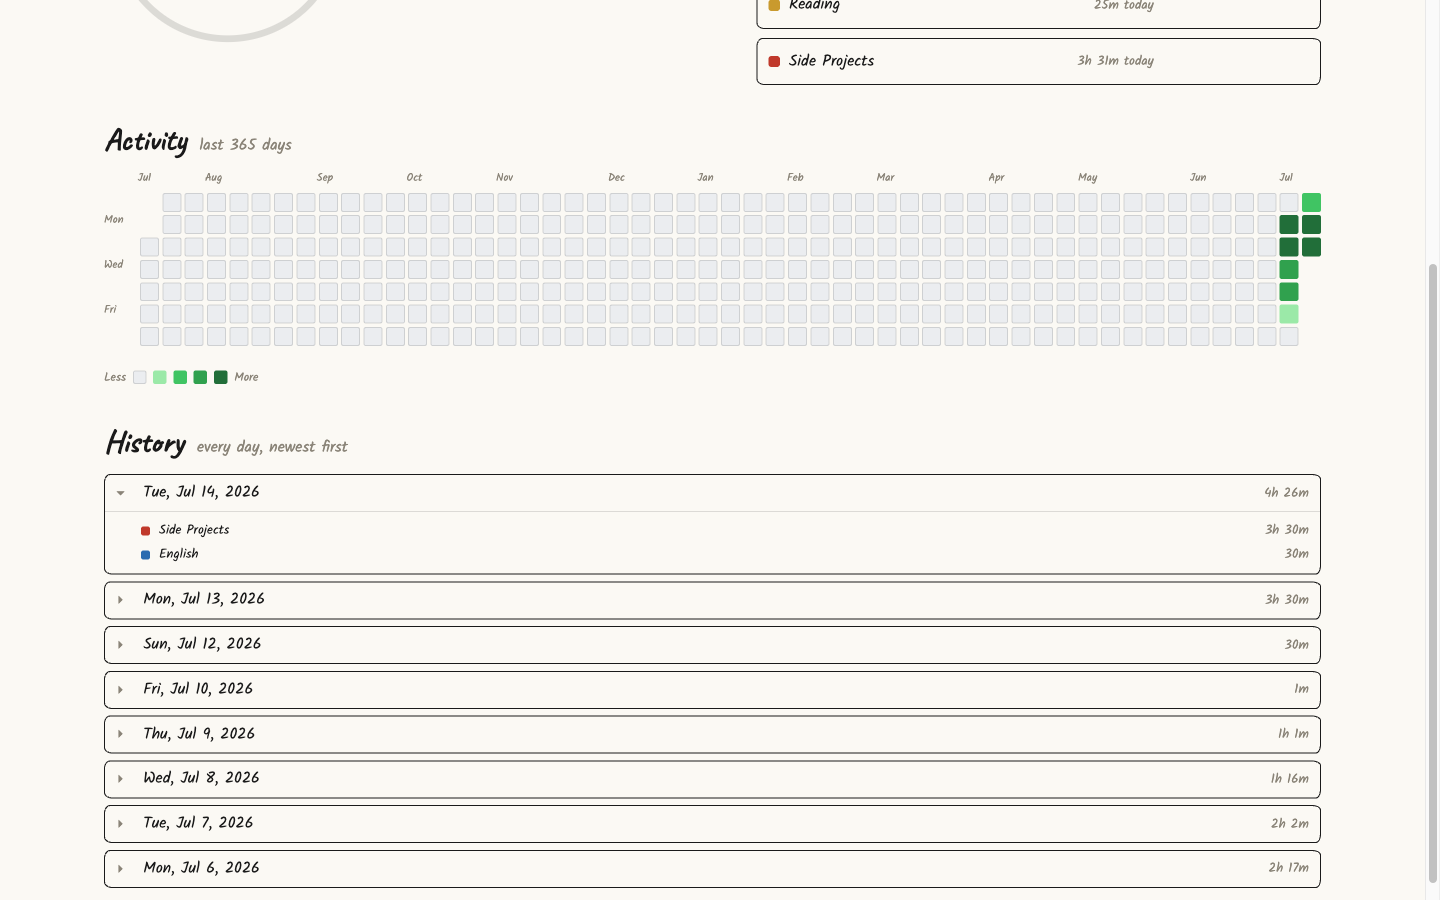
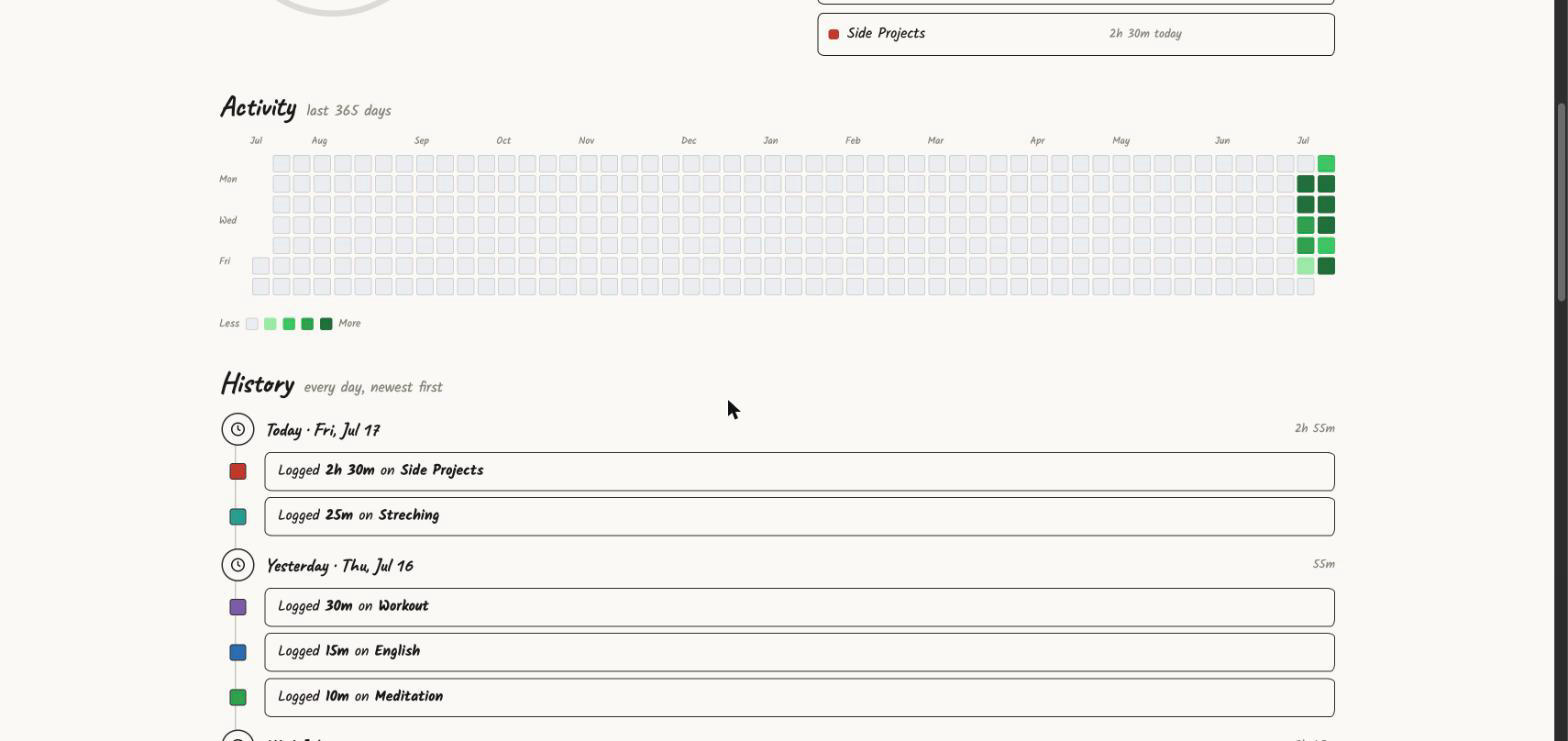
docs: update README to clarify daily history as a detailed timeline
- Revised descriptions to reflect timeline-based daily history instead of expandable breakdowns.
- Updated related screenshot label for consistency.

diff --git a/README.md b/README.md
@@ -18,9 +18,9 @@ Start a timer from any task and watch the ring tick up, or log minutes by hand. 
 
 ### Activity & history
 
-A 365-day heatmap of daily totals, plus a day-by-day history you can expand into a per-task breakdown.
+A 365-day heatmap of daily totals, plus a day-by-day timeline of every logged entry.
 
-![Activity heatmap and expandable history](docs/screenshots/history.png)
+![Activity heatmap and daily history timeline](docs/screenshots/history.png)
 
 ### Manage tasks
 
@@ -43,7 +43,7 @@ Cookie-based, same-origin auth via Google (OIDC).
 - **Built-in timer** — a client-side stopwatch (persisted in `localStorage`, synced across tabs) that rounds up to whole minutes and posts a time log on stop.
 - **Manual logging** — add time entries against any task by hand.
 - **Activity heatmap** — per-day totals for the last 365 days, rendered server-side.
-- **Daily history** — every day newest-first, each expandable into its per-task breakdown.
+- **Daily history** — a timeline of every logged entry, grouped by day newest-first with per-day totals.
 - **Per-task colors** — a bounded palette carried on every task.
 - **Google sign-in** — OIDC authorization-code flow, cookie auth, register-on-first-login.
 